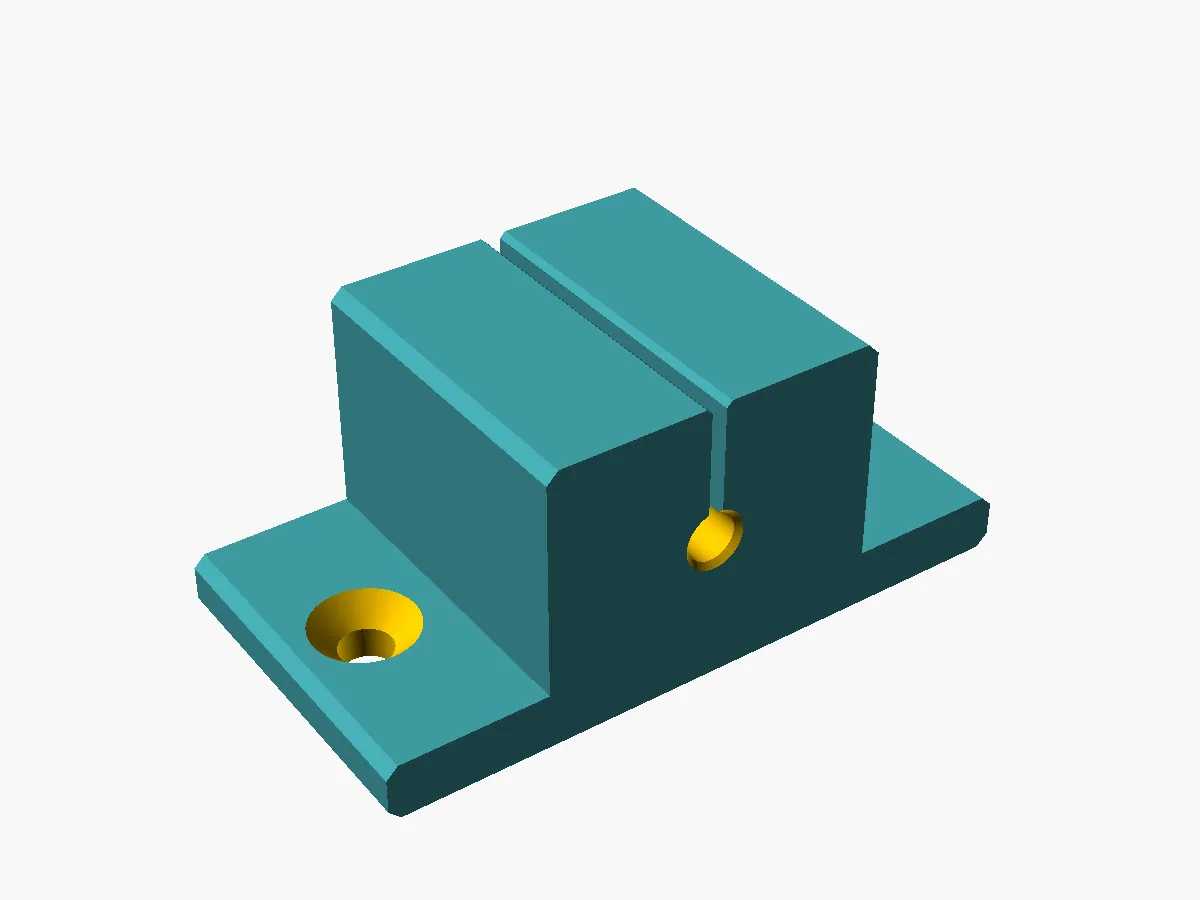
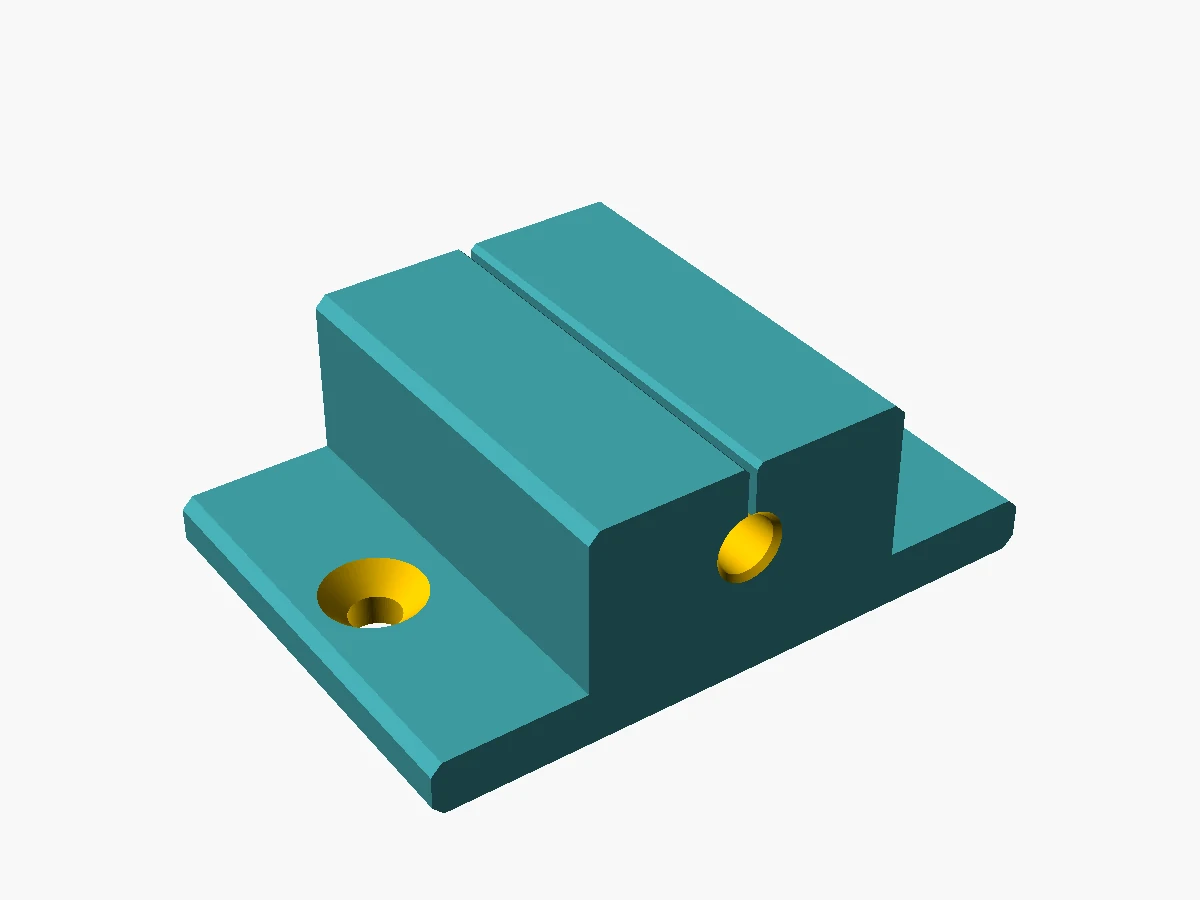
Correct inconsistencies, reduce image size

Changed region(s): [[0.1542, 0.2178, 0.8633, 0.9022]]

diff --git a/README.md b/README.md
@@ -2,9 +2,23 @@
 
 Parametric crimping anvil for making metal-tubing shoelace aglets, based on the custom aglet crimping anvil on Ian Fieggen's Shoelace Site: https://www.fieggen.com/shoelace/agletmetal.htm
 
+<p>
+  <img src="images/crimping_demo.jpg" alt="Brass tubing in the anvil's hole with the chisel in the slot, under a hammer" width="48%">
+  <img src="images/finished_aglets.jpg" alt="Finished brass aglets crimped onto paracord laces" width="48%">
+</p>
+
 Slide brass, copper or aluminium tubing over the lace end, feed it into the hole, set a thin steel strip (the "chisel") in the slot, and tap it gently with a hammer to crimp the tube lengthwise onto the lace.
 
-Customizable: tubing diameter and hole clearance, chisel thickness and slot clearance, slot depth, block size, and an optional bench-mounting flange with countersinks for #8 or M4 flat-head screws. Defaults: 4.0 mm tubing, 1.0 mm chisel.
+Customizable: tubing diameter and hole clearance, chisel thickness and slot clearance, slot depth, block size, and an optional bench-mounting flange with countersinks for #8 or M4 flat-head screws. Defaults: 5.0 mm tubing, 0.45 mm chisel, 5 mm slot depth, and a 40 × 30 × 20 mm block (length × width × height).
+
+<p>
+  <img src="images/render.webp" alt="Render of the anvil at the default settings" width="48%">
+  <img src="images/printed_anvil.jpeg" alt="Printed anvil with a steel strip in the slot" width="48%">
+</p>
+
+Customize in your browser: [open the model in OpenSCAD Web GUI](https://seasick.github.io/openscad-web-gui/?https://raw.githubusercontent.com/AntJLopez/aglet-crimping-anvil/main/aglet_crimping_anvil.scad), with nothing to install. Or download the .scad, open it in OpenSCAD, and change the parameters in the Customizer panel (Window > Customizer).
+
+Examples: the examples folder has ready-to-print STLs for 4, 5 and 6 mm tubing, all with a 0.45 mm chisel and the other defaults.
 
 Printing: print as exported, standing on end with the hole vertical. The crimping forces then push along the layers instead of pulling them apart, and the hole prints round. No supports needed. 100% infill recommended. PLA works well because it is stiffer than PETG.
 
@@ -12,4 +26,8 @@ Fit: holes and slots usually print 0.1 to 0.2 mm small, and the 0.3 mm default c
 
 Use: screw it down through the flange or clamp the flange. Don't clamp the block across its width in a vise, which squeezes the slot shut. Use a chisel with a straight, slightly rounded edge.
 
+<img src="images/laced_boots.jpeg" alt="Boots laced with the finished aglets" width="48%">
+
 Modeled in OpenSCAD with AI assistance (Anthropic's Claude); test-printed and used by me. Source .scad included.
+
+License: CC BY 4.0 (see LICENSE). If you share or remix this design, credit Antonio J. López and link to this repository.
